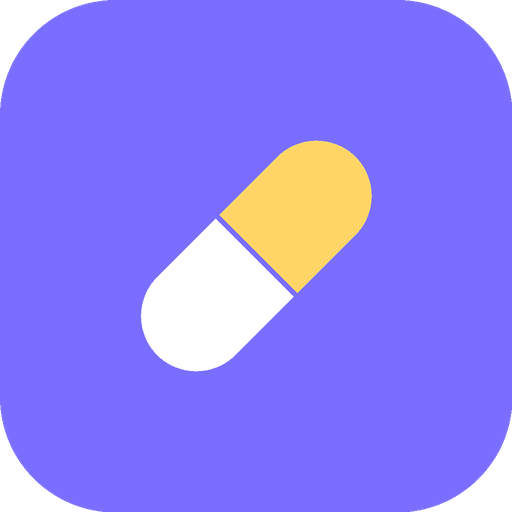
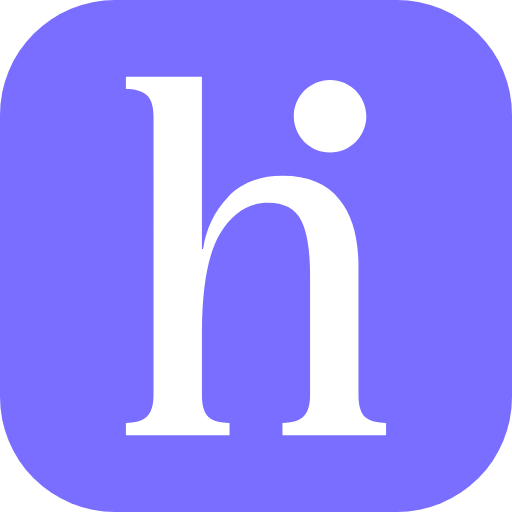
Новая иконка приложения из Figma
Claude-Session: https://claude.ai/code/session_01BnA3riGZzpUo53wNieUh6N

Changed region(s): [[0.25, 0.125, 0.75, 0.875]]

diff --git a/sw.js b/sw.js
@@ -1,5 +1,5 @@
 /* Офлайн-кэш оболочки приложения. При каждом обновлении увеличивать VERSION. */
-const VERSION = 'v1';
+const VERSION = 'v2';
 const CACHE = 'ht-' + VERSION;
 const SHELL = ['./', 'index.html', 'app.js', 'foods.js', 'config.js', 'manifest.webmanifest',
   'icons/icon-192.png', 'icons/icon-512.png', 'icons/apple-touch-icon.png',
